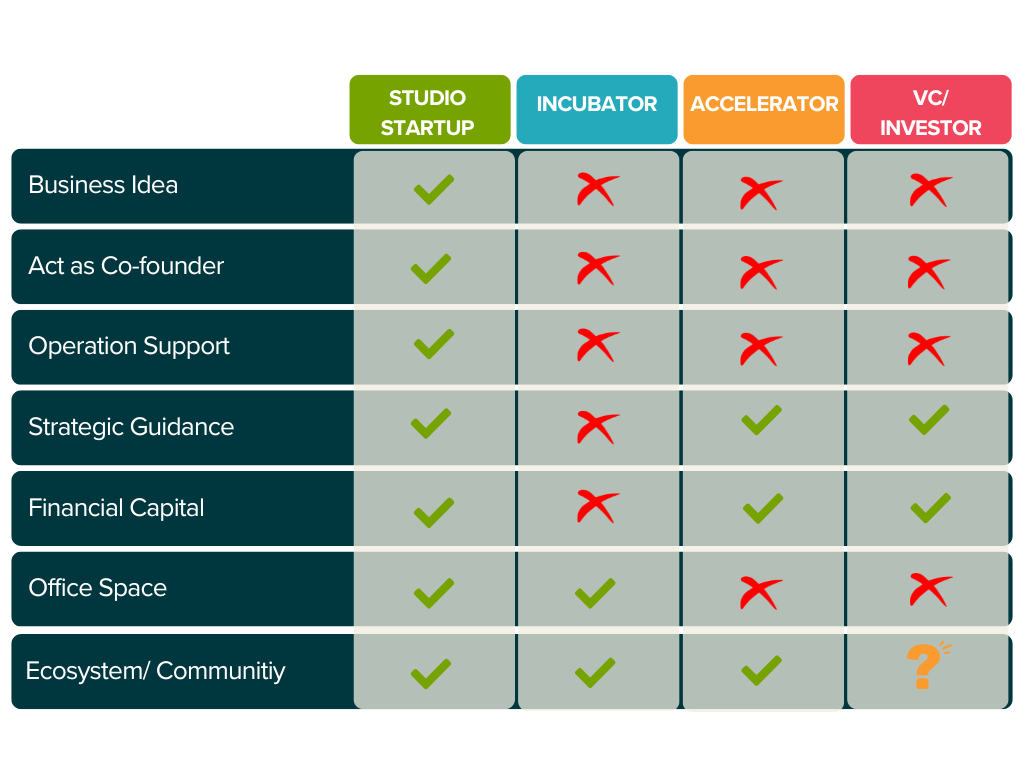
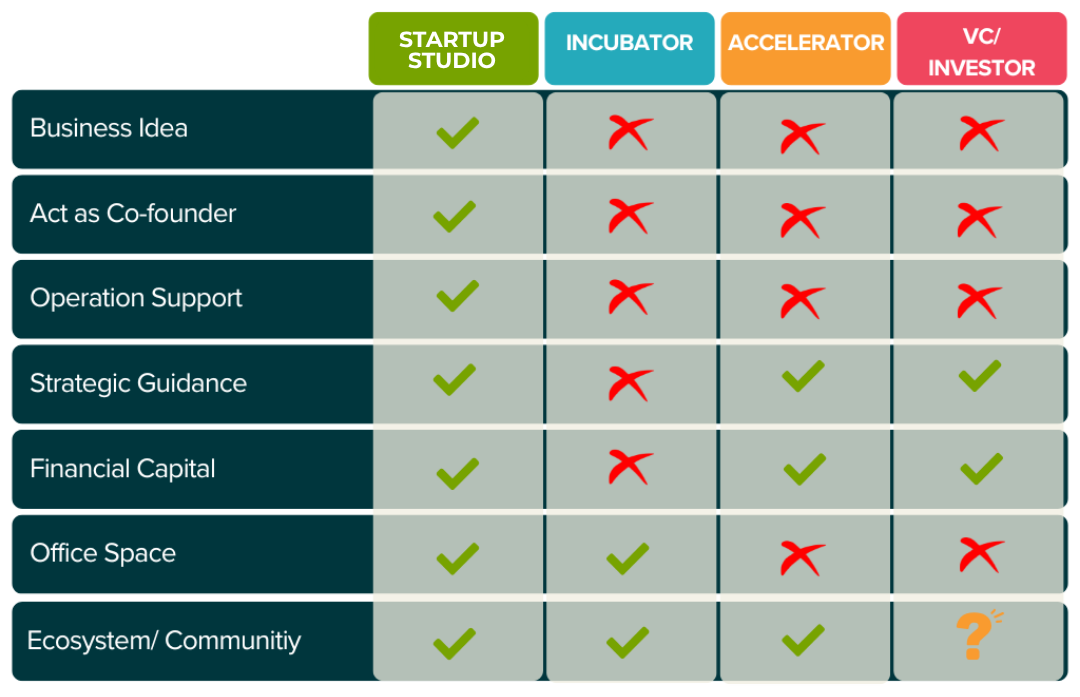
update blog image of Startup Studio

diff --git a/about.html b/about.html
@@ -46,7 +46,7 @@
     </section>
 
     <main class="about-main">
-        <p>DCI is not just incubator, accelerator, or investor. We are a high-impact venture studio that co-builds ventures from the ground up, acting as a hands-on strategic partner with shared infrastructure, operational involvement, and long-term commitment. </p>
+        <p>DCI is not just an incubator, accelerator, or investor. We are a high-impact venture studio that co-builds ventures from the ground up, acting as a hands-on strategic partner with shared infrastructure, operational involvement, and long-term commitment. </p>
         
         <section class="vision-mission-infographic">
             <h2>Our Vision & Mission</h2>

diff --git a/founder.html b/founder.html
@@ -131,7 +131,7 @@
                         </select>
                         
                         <select id="vertical" name="vertical" required>
-                            <option value="" disabled selected>Preferred Vertical *</option>
+                            <option value="" disabled selected>Preferred Pillars *</option>
                             <option value="Sharing">Sharing & Rental Economy</option>
                             <option value="Membership">Membership & Subscription Economy</option>
                             <option value="Green">Green & Circular Economy</option>

diff --git a/index.html b/index.html
@@ -84,7 +84,7 @@
         </div>
         <div class="content-right">
             <h2>Who We Are</h2>
-            <p>DCI is not just incubator, accelerator, or investor. We are a high-impact venture studio that co-builds ventures from the ground up, acting as a hands-on strategic partner with shared infrastructure, operational involvement, and long-term commitment.</p>
+            <p>DCI is not just an incubator, accelerator, or investor. We are a high-impact venture studio that co-builds ventures from the ground up, acting as a hands-on strategic partner with shared infrastructure, operational involvement, and long-term commitment.</p>
             <a href="about.html" class="btn">Learn More</a>
         </div>
     </section>

diff --git a/investor.html b/investor.html
@@ -156,7 +156,7 @@
                         <input type="text" id="amount" name="amount" placeholder="Target Investment Range ($k) *" required>
                         
                         <select id="vertical" name="vertical" required>
-                            <option value="" disabled selected>Preferred Investment Vertical *</option>
+                            <option value="" disabled selected>Preferred Investment Pillars *</option>
                            <option value="Sharing">Sharing & Rental Economy</option>
                             <option value="Membership">Membership & Subscription Economy</option>
                             <option value="Green">Green & Circular Economy</option>